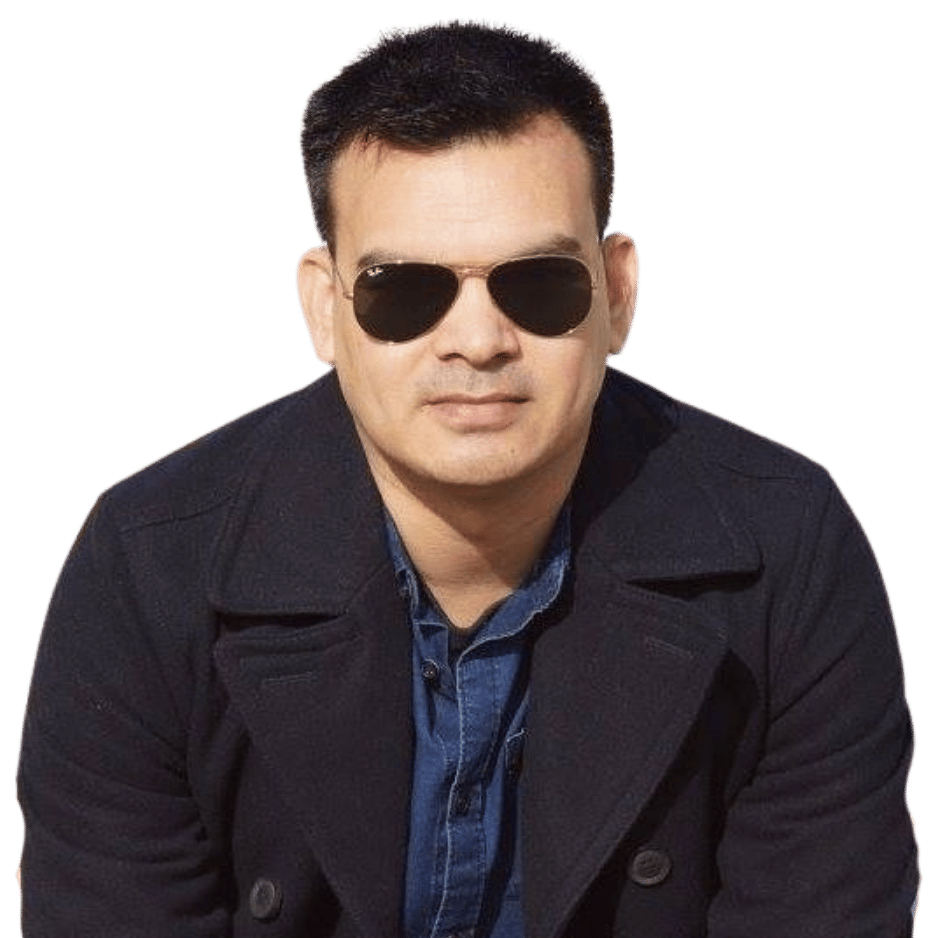
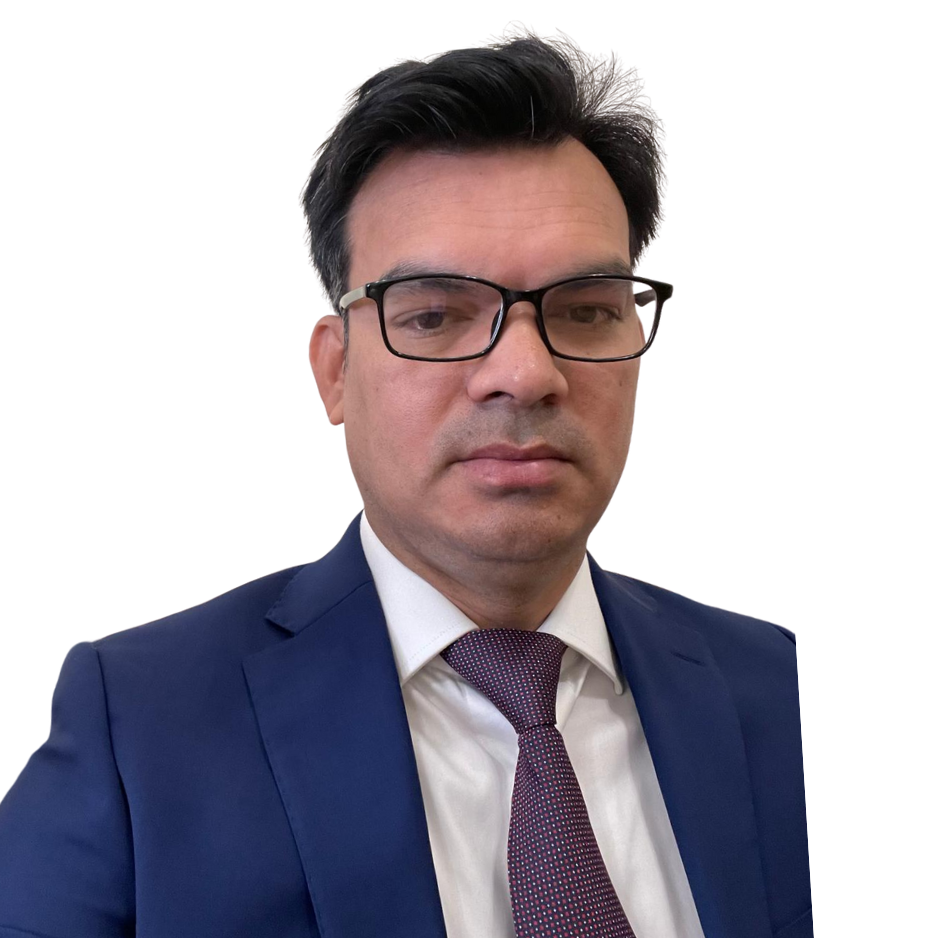
updated with new fixes

diff --git a/src/app/modules/main-portal/pages/landing/landing.html b/src/app/modules/main-portal/pages/landing/landing.html
@@ -7,7 +7,7 @@
         <picture>
             <source media="(min-width: 1600px)" srcset="/1920_400.jpeg">
             <source media="(min-width: 768px)" srcset="/1920_400.jpeg">
-            <img src="/banner-bnp-333.jpeg" alt="BNP Platform Banner" fetchpriority="high" loading="eager"
+            <img src="/banner-bnp-phone-size.jpeg" alt="BNP Platform Banner" fetchpriority="high" loading="eager"
                 (load)="onImgLoad($event)"
                 class="w-full h-auto block transition-transform duration-1000 hover:scale-[1.005] image-fade"
                 onerror="this.src='https://placehold.co/1920x400?text=BNP+Platform+Banner'">
@@ -87,21 +87,9 @@
                         <div
                             class="absolute inset-0 bg-gradient-to-t from-black/60 via-transparent to-transparent opacity-60">
                         </div>
-                        <div
-                            class="absolute bottom-6 left-6 right-6 p-4 rounded-2xl bg-white/10 backdrop-blur-md border border-white/20">
-                            <p class="text-xs font-bold text-white uppercase tracking-widest">ঐতিহাসিক সংগ্রাম</p>
-                        </div>
                     </div>
                 </div>
                 <div class="w-full md:w-1/2">
-                    <div
-                        class="inline-flex items-center gap-2 px-4 py-2 rounded-full bg-bnp-green/10 text-bnp-green text-xs font-bold mb-6">
-                        <span class="w-2 h-2 rounded-full bg-bnp-green animate-pulse"></span>
-                        ১৭ বছরের অদম্য লড়াই
-                    </div>
-                    <h3 class="text-3xl md:text-5xl font-black text-gray-900 mb-8 leading-[1.15]">
-                        সংগ্রাম ও <span class="text-bnp-green">ত্যাগের</span> এক অবিস্মরণীয় যাত্রা
-                    </h3>
                     <p class="text-lg md:text-xl text-gray-600 leading-relaxed text-justify font-medium">
                         বিগত ১৭ বছর বাংলাদেশ দেখেছে এক অদম্য লড়াইয়ের ইতিহাস। স্বৈরাচারী শাসনের রক্তচক্ষু উপেক্ষা করে
                         বাংলাদেশ জাতীয়তাবাদী দল (বিএনপি) রাজপথে অবিচল থেকেছে জনগণের হৃত অধিকার পুনরুদ্ধারের লক্ষ্যে।
@@ -114,7 +102,7 @@
                 </div>
             </div>
 
-            <!-- Part 2 & 3: Vision & Economy -->
+            <!-- Part 2: Vision -->
             <div class="flex flex-col md:flex-row-reverse items-center gap-10 md:gap-20 mb-20 md:mb-32 animate-in">
                 <div class="w-full md:w-1/2 relative group">
                     <div
@@ -126,22 +114,10 @@
                         <div
                             class="absolute inset-0 bg-gradient-to-t from-black/60 via-transparent to-transparent opacity-60">
                         </div>
-                        <div
-                            class="absolute bottom-6 left-6 right-6 p-4 rounded-2xl bg-white/10 backdrop-blur-md border border-white/20">
-                            <p class="text-xs font-bold text-white uppercase tracking-widest">আধুনিক রূপকল্প</p>
-                        </div>
                     </div>
                 </div>
                 <div class="w-full md:w-1/2">
-                    <div
-                        class="inline-flex items-center gap-2 px-4 py-2 rounded-full bg-bnp-red/10 text-bnp-red text-xs font-bold mb-6">
-                        <span class="w-2 h-2 rounded-full bg-bnp-red animate-pulse"></span>
-                        নতুন বাংলাদেশ বিনির্মাণ
-                    </div>
-                    <h3 class="text-3xl md:text-5xl font-black text-gray-900 mb-8 leading-[1.15]">
-                        নতুন বাংলাদেশ ও <span class="text-bnp-red">রাষ্ট্র সংস্কারের</span> রূপকল্প
-                    </h3>
-                    <p class="text-lg text-gray-600 leading-relaxed mb-6 text-justify">
+                    <p class="text-lg text-gray-600 leading-relaxed text-justify">
                         আমরা বিশ্বাস করি, কেবল ক্ষমতার পরিবর্তন নয়, আজ প্রয়োজন রাষ্ট্র ব্যবস্থার আমূল সংস্কার। জুলাই
                         বিপ্লবের শহীদের রক্তের বিনিময়ে অর্জিত এই দ্বিতীয় স্বাধীনতাকে সার্থক করতে বিএনপি প্রতিশ্রুতিবদ্ধ।
                         আমাদের লক্ষ্য এমন এক ‘ইনক্লুসিভ’ বাংলাদেশ গড়া, যেখানে প্রতিহিংসার বদলে প্রতিষ্ঠিত হবে মানবিক
@@ -150,7 +126,21 @@
                         প্রধানমন্ত্রী না হওয়ার বিধান নিশ্চিত করার মাধ্যমে আমরা ক্ষমতার ভারসাম্য প্রতিষ্ঠা করব, যেন কেউ
                         আর স্বৈরাচার হয়ে উঠতে না পারে।
                     </p>
-                    <div class="h-px w-full bg-gradient-to-r from-transparent via-gray-200 to-transparent my-8"></div>
+                </div>
+            </div>
+
+            <!-- Part 3: Economy -->
+            <div class="flex flex-col md:flex-row items-center gap-10 md:gap-20 mb-20 md:mb-32 animate-in">
+                <div class="w-full md:w-1/2 relative group">
+                    <div
+                        class="absolute -inset-4 bg-gray-100 rounded-[2.5rem] blur-2xl group-hover:bg-gray-200 transition-all duration-700 opacity-40">
+                    </div>
+                    <div class="relative overflow-hidden rounded-[2.5rem] shadow-2xl ring-1 ring-black/5 aspect-[4/3]">
+                        <img src="/landing/3.jpeg" alt="BNP Economic Vision"
+                            class="w-full h-full object-cover transition-transform duration-700 group-hover:scale-105">
+                    </div>
+                </div>
+                <div class="w-full md:w-1/2">
                     <p class="text-lg text-gray-600 leading-relaxed text-justify">
                         বিএনপি ক্ষমতায় গেলে প্রতিটি নাগরিকের অর্থনৈতিক মর্যাদা হবে আমাদের অগ্রাধিকার। বেকারত্ব নিরসনে এক
                         কোটি নতুন কর্মসংস্থান, শিক্ষিত বেকার যুবকদের জন্য বিশেষ ভাতা এবং আধুনিক কারিগরি শিক্ষার প্রসার
@@ -164,19 +154,9 @@
             </div>
 
             <!-- Part 4: Conclusion -->
-            <div class="flex flex-col md:flex-row items-stretch gap-10 md:gap-12 animate-in pb-10">
-                <div class="w-full md:w-1/3 relative group">
-                    <div
-                        class="absolute -inset-4 bg-gray-100 rounded-[2.5rem] blur-2xl group-hover:bg-gray-200 transition-all duration-700 opacity-40">
-                    </div>
-                    <div
-                        class="relative h-full overflow-hidden rounded-[2.5rem] shadow-xl ring-1 ring-black/5 min-h-[300px]">
-                        <img src="/landing/3.jpeg" alt="BNP Future Leader"
-                            class="w-full h-full object-cover transition-transform duration-700 group-hover:scale-105">
-                    </div>
-                </div>
+            <div class="animate-in pb-10">
                 <div
-                    class="w-full md:w-2/3 bg-gradient-to-br from-[#006a4e] to-[#004d39] p-8 md:p-14 rounded-[3rem] text-white shadow-2xl relative overflow-hidden flex flex-col justify-center">
+                    class="w-full bg-gradient-to-br from-[#006a4e] to-[#004d39] p-8 md:p-14 rounded-[3rem] text-white shadow-2xl relative overflow-hidden flex flex-col justify-center">
                     <!-- Decorative Elements -->
                     <div
                         class="absolute top-0 right-0 -mt-24 -mr-24 w-80 h-80 bg-white/10 rounded-full blur-[100px] pointer-events-none">
@@ -192,17 +172,13 @@
                         </h3>
                         <p class="text-lg md:text-xl text-white/90 leading-relaxed mb-12 text-justify font-medium">
                             আগামী নির্বাচন আমাদের জাতীয় সার্বভৌমত্ব রক্ষা ও গণতন্ত্র ফিরিয়ে নেওয়ার চূড়ান্ত সুযোগ। শহীদ
-                            জিয়ার ‘সবার আগে বাংলাদেশ’ স্লোগানকে বুকে ধারণ করে আমরা এক বৈষম্যহীন সমাজ গড়ার শপথ নিয়েছি।
+                            জিয়ার ‘সবার আগে বাংলাদেশ’ স্লোগানকে বুকে ধারণ করে আমরা এক বৈষম্যহীন সমাজ গড়ার শপথ নিয়েছি।
                             আসুন, ১৭ বছরের আত্মত্যাগ আর শহীদের রক্তের ঋণ শোধ করতে আমরা ঐক্যবদ্ধ হই। আপনার একটি মূল্যবান
                             ভোটই পারে তারেক রহমানের নেতৃত্বে একটি নিরাপদ, স্থিতিশীল ও স্বনির্ভর বাংলাদেশ উপহার দিতে।
-                            পরিবর্তনের এই অগ্রযাত্রায় শামিল হোন, ধানের শীষে ভোট দিয়ে নিশ্চিত করুন একটি সমৃদ্ধ ভবিষ্যৎ।
+                            পরিবর্তনের এই অগ্রযাত্রায় শামিল হোন, ধানের শীষে ভোট দিয়ে নিশ্চিত করুন একটি সমৃদ্ধ ভবিষ্যৎ।
                         </p>
 
                         <div class="flex flex-col sm:flex-row items-center gap-6">
-                            <!-- <button
-                                class="w-full sm:w-auto px-10 py-5 bg-white text-bnp-green font-black rounded-2xl shadow-2xl hover:bg-gray-50 hover:-translate-y-1 transition-all active:scale-95 text-lg">
-                                ধানের শীষে ভোট দিন
-                            </button> -->
                             <div
                                 class="flex items-center gap-4 py-2 px-6 rounded-2xl border border-white/20 bg-white/5 backdrop-blur-sm">
                                 <span
@@ -215,7 +191,7 @@
         </div>
     </section>
 
-    <!-- District Selection Modal -->
+    <!-- Map Modal (or whatever follows) -->
     <div *ngIf="showModal"
         class="fixed inset-0 z-[200] flex items-center justify-center p-6 bg-gray-900/60 backdrop-blur-md">
         <div

diff --git a/src/app/modules/portfolio/pages/profile/profile.html b/src/app/modules/portfolio/pages/profile/profile.html
@@ -12,9 +12,8 @@
                         <div
                             class="md:col-span-5 candidate-photo-wrapper order-2 md:order-1 flex items-center justify-center min-h-[400px]">
                             <img *ngIf="candidate.photo_url; else noProfilePhoto" [src]="candidate.photo_url"
-                                [alt]="candidate.full_name" (error)="handleImageError($event)"
-                                fetchpriority="high" loading="eager" (load)="onImgLoad($event)"
-                                class="image-fade">
+                                [alt]="candidate.full_name" (error)="handleImageError($event)" fetchpriority="high"
+                                loading="eager" (load)="onImgLoad($event)" class="image-fade">
                             <ng-template #noProfilePhoto>
                                 <div
                                     class="w-full h-full flex flex-col items-center justify-center text-white/20 py-20 translate-y-10">
@@ -92,8 +91,10 @@
                 <!-- Contact Form Section -->
                 <div class="contact-section mt-24 pt-16 border-t border-gray-100">
                     <div class="mb-12">
-                        <h2 class="text-4xl font-black text-[#1a5e4d] mb-4 flex justify-center text-center">সরাসরি প্রার্থীকে লিখুন</h2>
-                        <p class="text-gray-500 max-w-2xl text-center mx-auto">পরিবর্তনের রাজনীতিতে অংশ নিন আপনিও। আপনার এলাকার
+                        <h2 class="text-4xl font-black text-[#1a5e4d] mb-4 flex justify-center text-center">সরাসরি
+                            প্রার্থীকে লিখুন</h2>
+                        <p class="text-gray-500 max-w-2xl text-center mx-auto">পরিবর্তনের রাজনীতিতে অংশ নিন আপনিও। আপনার
+                            এলাকার
                             সমস্যা কিংবা আগামীর স্বপ্ন নিয়ে সরাসরি কথা বলুন প্রার্থীর সাথে। আপনার বার্তাই গড়বে আগামীর
                             বাংলাদেশ।</p>
                     </div>

diff --git a/src/app/modules/portfolio/pages/profile/profile.scss b/src/app/modules/portfolio/pages/profile/profile.scss
@@ -9,9 +9,9 @@
 }
 
 .hero-poster {
-    background: linear-gradient(135deg, rgba(26, 94, 77, 0.35) 0%, rgba(13, 46, 38, 0.45) 100%), url('/Cover-3.gif');
+    background: linear-gradient(135deg, rgba(26, 94, 77, 0.35) 0%, rgba(13, 46, 38, 0.45) 100%), url('/Desktop.gif');
     background-size: 100% 100%;
-    background-position: center;
+    background-position: center center;
     background-repeat: no-repeat;
     position: relative;
     overflow: hidden;
@@ -294,6 +294,16 @@
 }
 
 @media (max-width: 1024px) {
+    .hero-poster {
+        background-image: linear-gradient(135deg, rgba(26, 94, 77, 0.35) 0%, rgba(13, 46, 38, 0.45) 100%), url('/Tab.gif');
+        background-size: 100% 100%;
+
+        .candidate-photo-wrapper img {
+            max-height: 480px !important;
+            transform: scale(1.02);
+        }
+    }
+
     .content-section .gallery-masonry {
         columns: 2;
     }
@@ -421,9 +431,20 @@
 
 @media (max-width: 768px) {
     .hero-poster {
+        background-image: linear-gradient(135deg, rgba(26, 94, 77, 0.35) 0%, rgba(13, 46, 38, 0.45) 100%), url('/Mobile.gif');
+        background-size: 100% 100%;
         padding: 3rem 1rem 0;
         /* Align photo to bottom on mobile too */
         min-height: 450px;
+
+        .candidate-photo-wrapper {
+            min-height: auto;
+
+            img {
+                max-height: 350px !important;
+                transform: scale(1);
+            }
+        }
     }
 
     .poster-header-text {

diff --git a/src/app/core/pages/about-us/about-us.scss b/src/app/core/pages/about-us/about-us.scss
@@ -4,7 +4,7 @@
 }
 
 .hero-poster {
-    background: linear-gradient(135deg, rgba(26, 94, 77, 0.35) 0%, rgba(13, 46, 38, 0.45) 100%), url('/Cover-3.gif');
+    background: linear-gradient(135deg, rgba(26, 94, 77, 0.35) 0%, rgba(13, 46, 38, 0.45) 100%), url('/Desktop.gif');
     background-size: 100% 100%;
     background-position: center;
     position: relative;
@@ -134,6 +134,20 @@
         text-transform: uppercase;
         letter-spacing: 1px;
         margin-bottom: 1.5rem;
+    }
+}
+
+@media (max-width: 1024px) {
+    .hero-poster {
+        background-image: linear-gradient(135deg, rgba(26, 94, 77, 0.35) 0%, rgba(13, 46, 38, 0.45) 100%), url('/Tab.gif');
+        background-size: 100% 100%;
+    }
+}
+
+@media (max-width: 768px) {
+    .hero-poster {
+        background-image: linear-gradient(135deg, rgba(26, 94, 77, 0.35) 0%, rgba(13, 46, 38, 0.45) 100%), url('/Mobile.gif');
+        background-size: 100% 100%;
     }
 }
 
